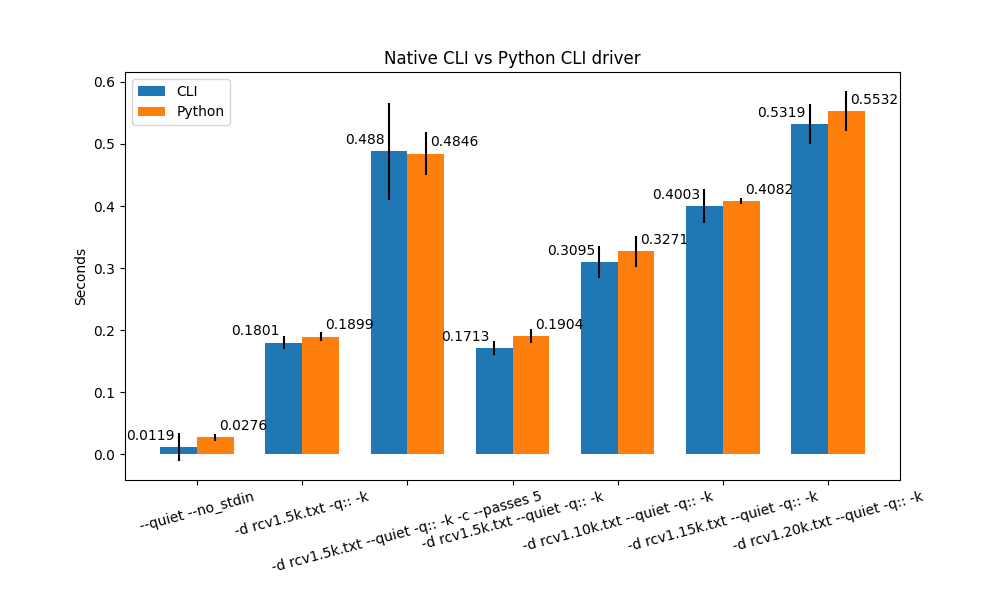
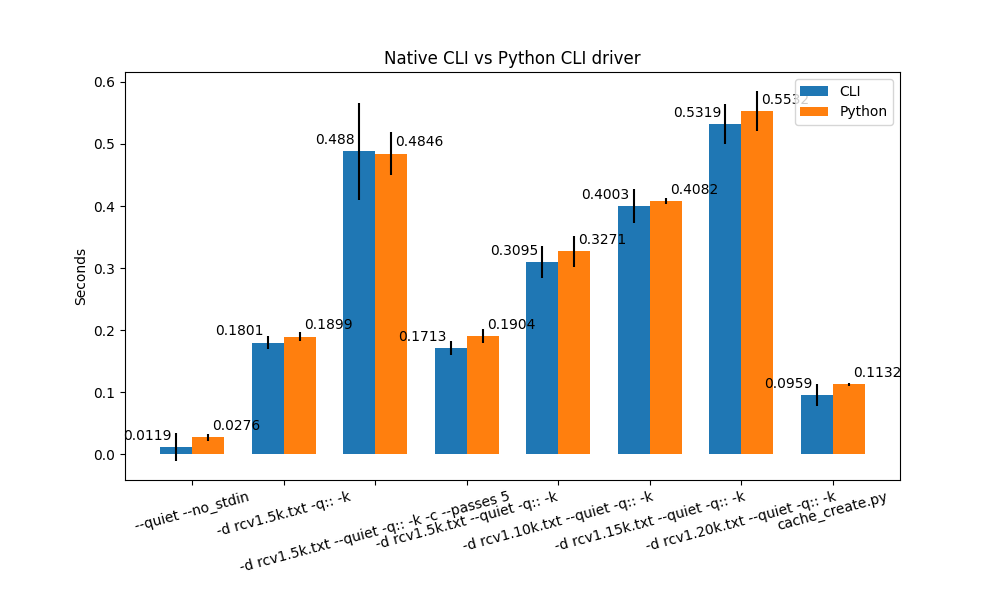
add benchmark for creating cache

diff --git a/benchmarks/cache_create.py b/benchmarks/cache_create.py
@@ -1,0 +1,9 @@
+import vowpal_wabbit_next as vw
+
+workspace = vw.Workspace(["--quiet"])
+with open("my_cache.cache", "wb") as cache_output_file:
+    with vw.CacheFormatWriter(workspace, cache_output_file) as writer:
+        with open("rcv1.10k.txt", "r") as text_input_file:
+            with vw.TextFormatReader(workspace, text_input_file) as reader:
+                for example in reader:
+                    writer.write_example(example)

diff --git a/benchmarks/plot.py b/benchmarks/plot.py
@@ -43,7 +43,7 @@ def append_benchmark_result(filename):
             cli_results_means.append(result["mean"])
             cli_results_stddevs.append(result["stddev"])
 
-for i in range(1, 8):
+for i in range(1, 9):
     append_benchmark_result(f"bench{i}.csv")
 
 # Print a markdown table of the results
@@ -89,4 +89,4 @@ fig.set_dpi(100)
 
 plt.xticks(rotation = 15)
 # plt.show()
-plt.savefig('plot.png')
+plt.savefig('plot_cli.png')

diff --git a/benchmarks/readme.md b/benchmarks/readme.md
@@ -32,6 +32,9 @@ Run: `python pyvw_comparison.py`
 | `-d rcv1.5k.txt --quiet -q:: -k` | 0.1739 s ± 0.0092 s | 0.2042 s ± 0.014 s |
 | `-d rcv1.10k.txt --quiet -q:: -k` | 0.2807 s ± 0.0079 s | 0.3097 s ± 0.0173 s |
 | `-d rcv1.20k.txt --quiet -q:: -k` | 0.4714 s ± 0.0025 s | 0.5248 s ± 0.0201 s |
+| `cache_create.py` | 0.0959 s ± 0.0182 s | 0.1132 s ± 0.0024 s |
+
+`cache_create.py` - Creates a cache file containing the first 10k examples of rcv1.
 
 The Python startup overhead was also directly measured:
 
